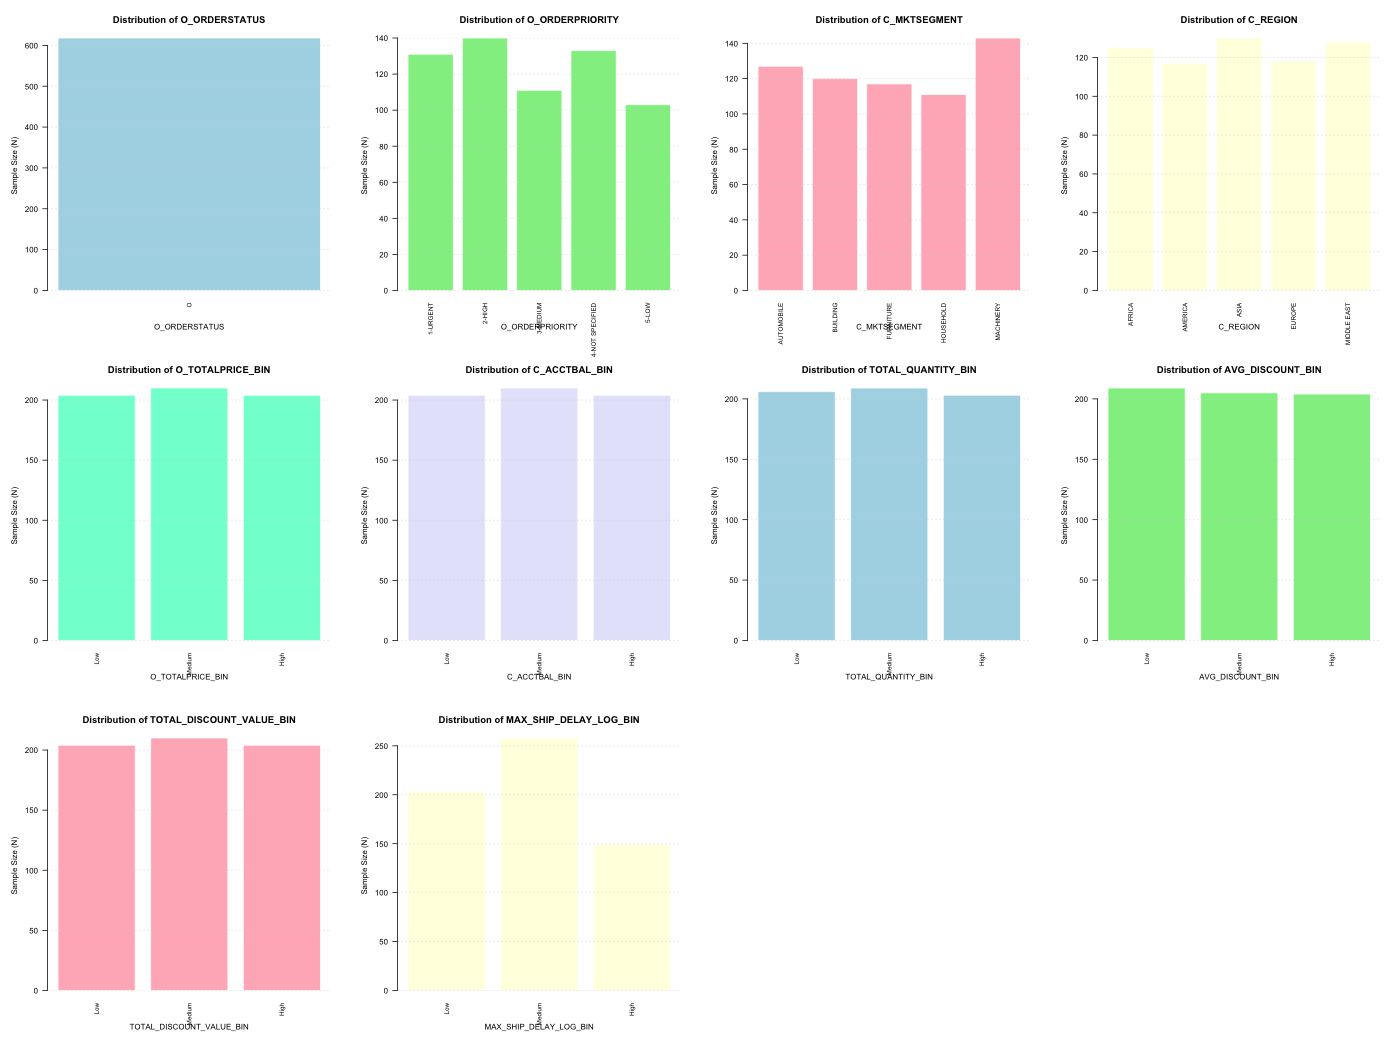
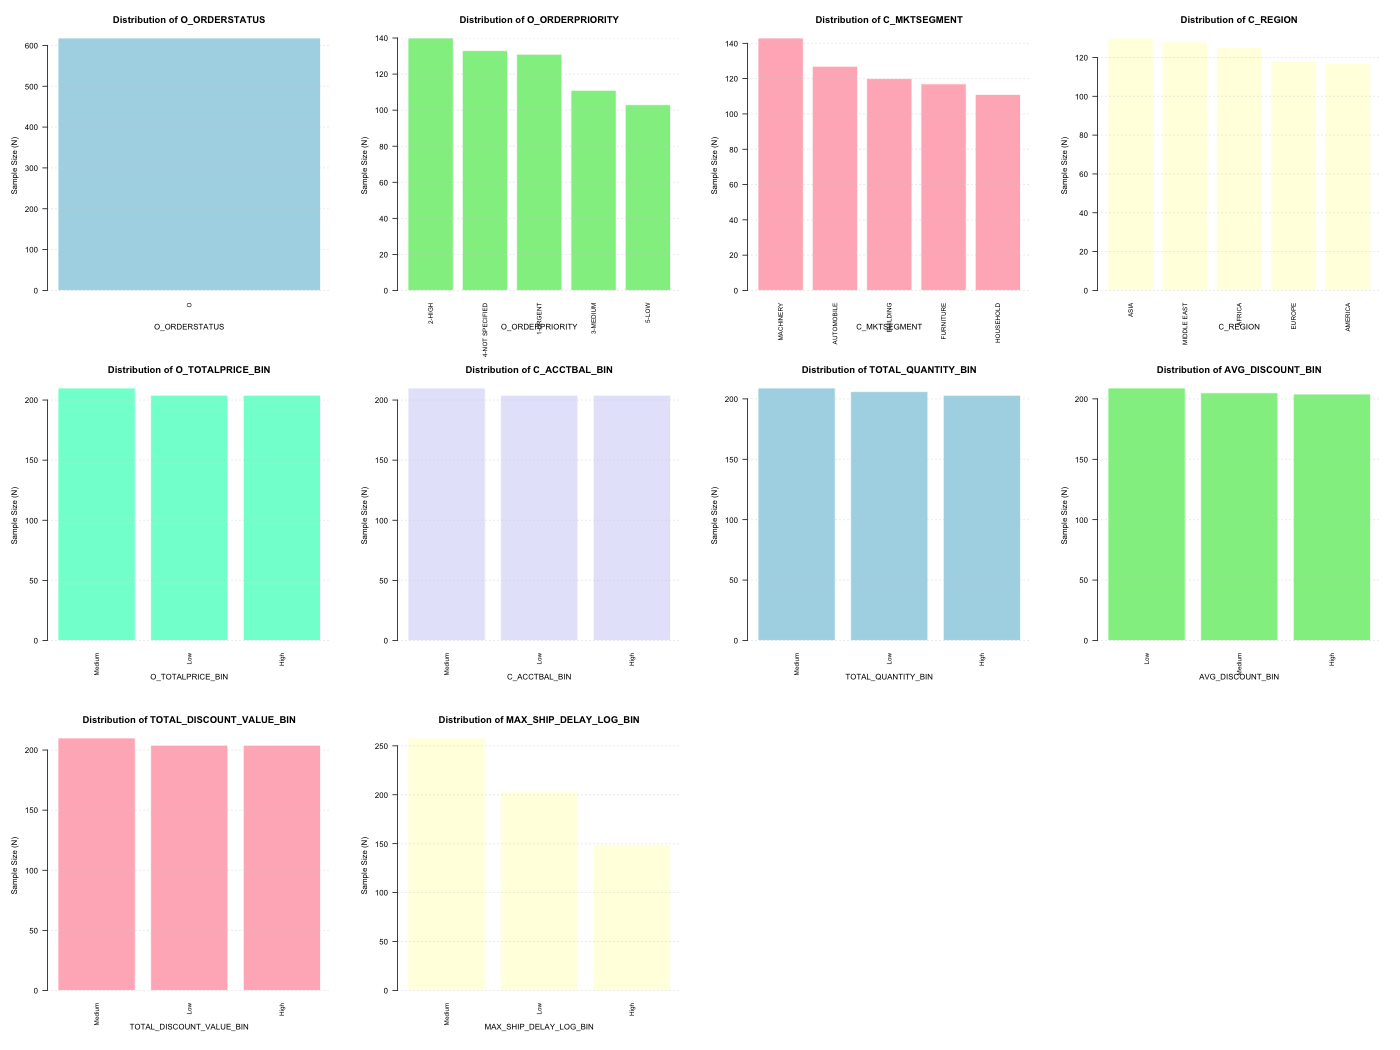
Sort independent variables distribution bar plots by frequency descending

diff --git a/gen/customer_orders_anomalous_audit_report.md b/gen/customer_orders_anomalous_audit_report.md
@@ -1,6 +1,6 @@
 # SQL Data Quality and Behavior Analysis Lab Report: customer_orders_anomalous
 
-**Report Generated on:** 2026-07-21 16:50:15.377051
+**Report Generated on:** 2026-07-21 17:19:10.236117
 **Source Dataset:** `customer_orders_anomalous.csv`
 **Auditor Classification Status:** CRITICAL ANOMALY DETECTED 🔴
 

diff --git a/gen/customer_orders_nominal_audit_report.md b/gen/customer_orders_nominal_audit_report.md
@@ -1,6 +1,6 @@
 # SQL Data Quality and Behavior Analysis Lab Report: customer_orders_nominal
 
-**Report Generated on:** 2026-07-21 16:53:44.757406
+**Report Generated on:** 2026-07-21 17:18:45.898829
 **Source Dataset:** `customer_orders_nominal.csv`
 **Auditor Classification Status:** CRITICAL ANOMALY DETECTED 🔴
 

diff --git a/gen/arbres-publics_audit_report.md b/gen/arbres-publics_audit_report.md
@@ -1,6 +1,6 @@
 # SQL Data Quality and Behavior Analysis Lab Report: arbres-publics
 
-**Report Generated on:** 2026-07-21 17:04:00.456668
+**Report Generated on:** 2026-07-21 17:17:55.353464
 **Source Dataset:** `arbres-publics.csv`
 **Auditor Classification Status:** MINOR ANOMALY DETECTED 🟡
 
